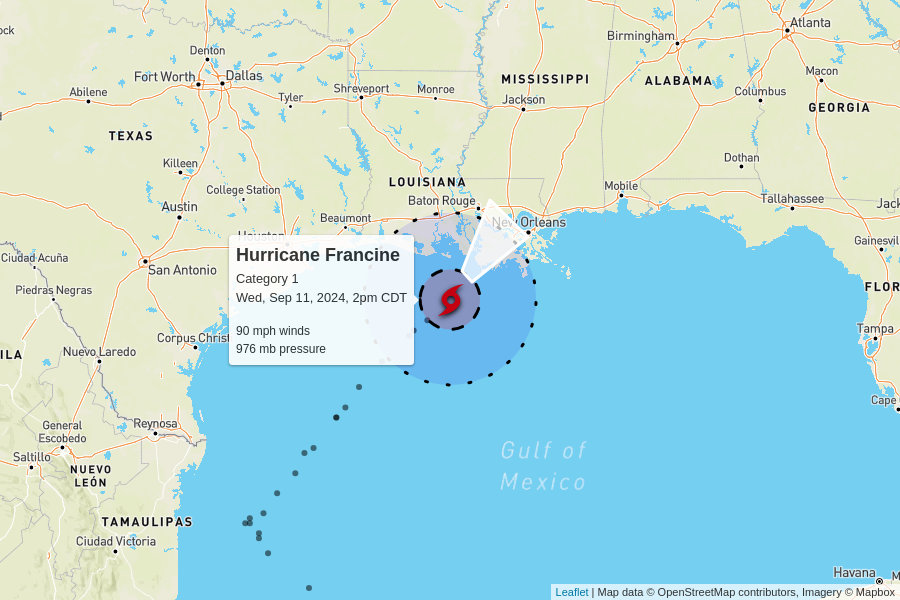
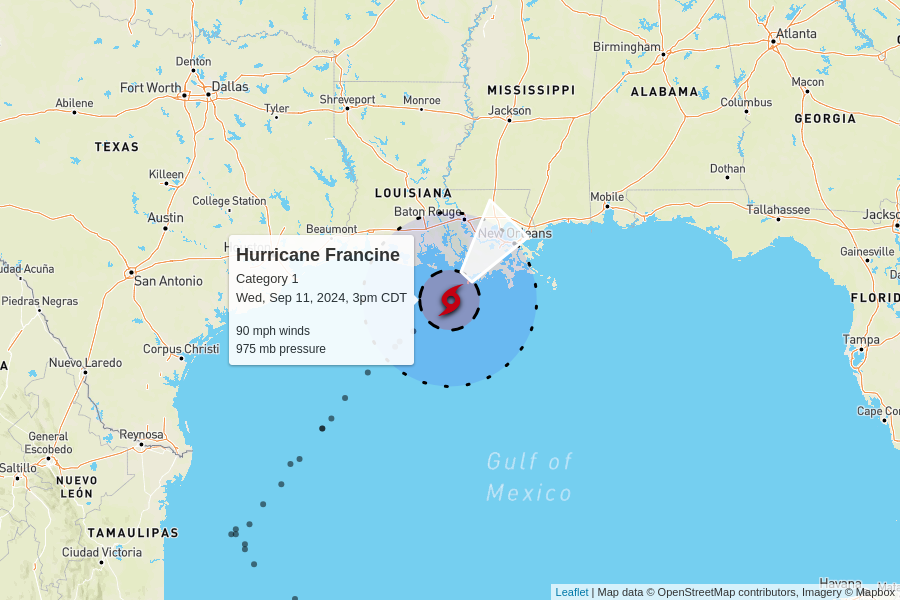
automatic update

diff --git a/docs/index.html b/docs/index.html
@@ -104,7 +104,7 @@
         <td colspan="6" class="storm category-1" >
           <h2>
             Hurricane Francine - Category 1
-            <p class="updated">last updated <span data-time>2024-09-11T19:00:00.000Z</span></p>
+            <p class="updated">last updated <span data-time>2024-09-11T20:00:00.000Z</span></p>
           </h2>
         </td>
       </tr>
@@ -120,7 +120,7 @@
       <tr>
         <td class="spacer"></td>
         <td>90 mph<br>0 mph since last update</td>
-        <td>976 mb<br>0 mb since last update</td>
+        <td>975 mb<br>-1 mb since last update</td>
         <td>
           17 mph to the northeast
           <br/>
